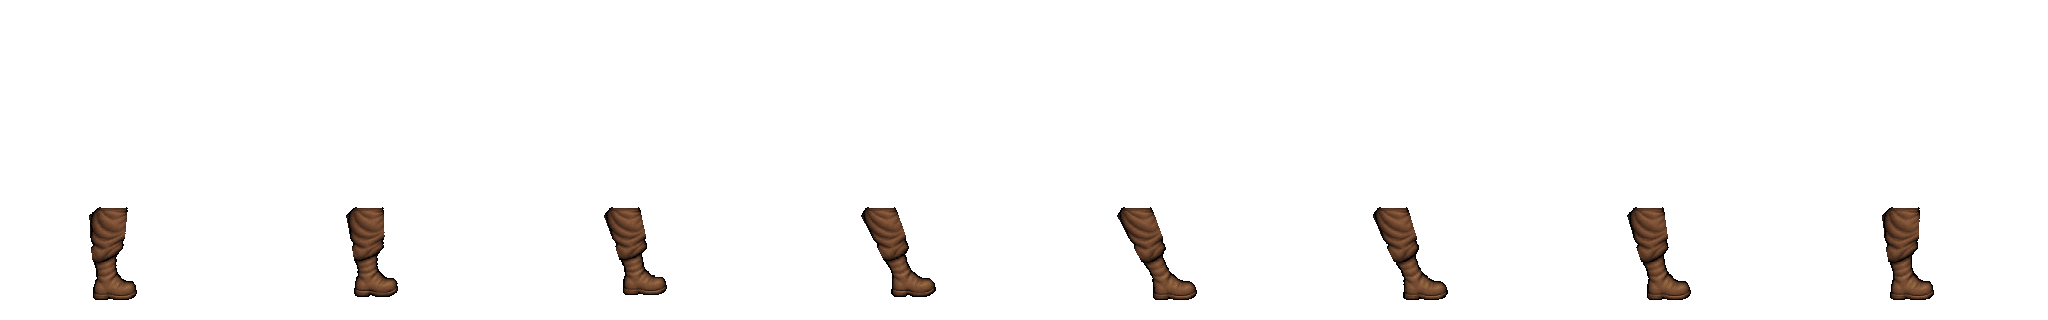
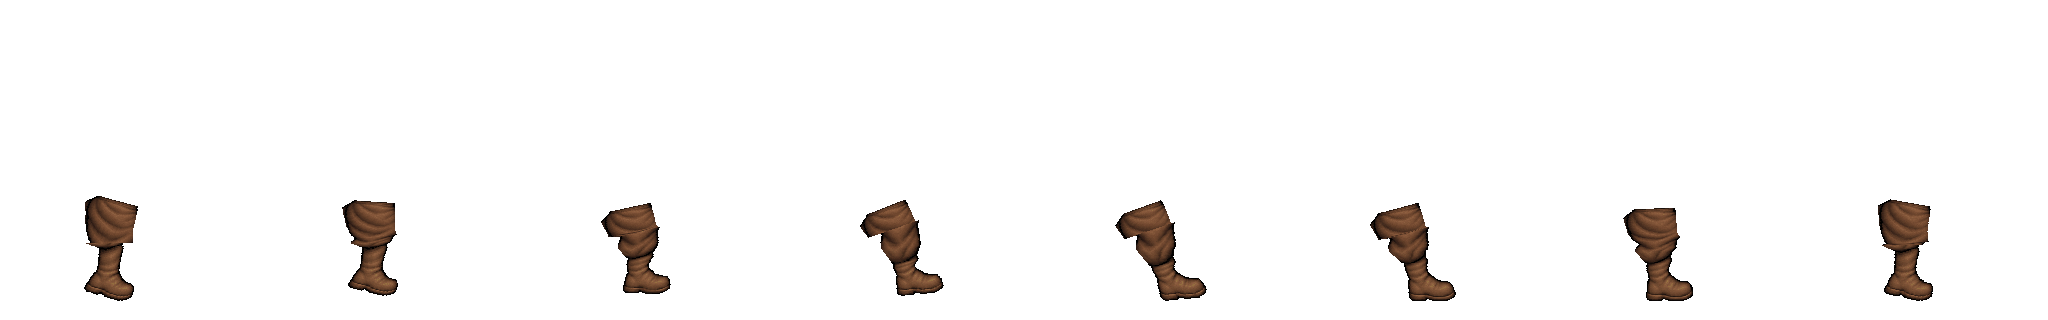
Refine right-walk stride and keep only grey fallen logs

diff --git a/src/world/fallenLogs.ts b/src/world/fallenLogs.ts
@@ -1,4 +1,4 @@
-import { FALLEN_LOGS, LOG_MUSHROOMS, FALLEN_LOG_GENERATION as CONFIG } from '../data/fallenLogs';
+import { FALLEN_LOGS, ACTIVE_LOG_VARIANTS, LOG_MUSHROOMS, FALLEN_LOG_GENERATION as CONFIG } from '../data/fallenLogs';
 import { seededRandom } from './random';
 import { overlaps, type Rect } from './geometry';
 import type { MeadowLayout } from './meadowLayout';
@@ -34,6 +34,27 @@ export function onMushroomSurface(variant: number, point: { x: number; y: number
       point.x < (bx - ax) * (point.y - ay) / (by - ay) + ax) inside = !inside;
   }
   return inside;
+}
+
+/** Scatter the existing items on a wood surface, preserving species/slot IDs.
+ * Shared by new layouts and migration from retired brown logs. */
+export function scatterLogMushrooms(variant: number, mushrooms: LogMushroom[], random: () => number) {
+  const art=FALLEN_LOGS[variant];
+  const integer=(min:number,max:number)=>min+Math.floor(random()*(max-min+1));
+  const placed: { x:number; y:number }[]=[];
+  for(const mushroom of mushrooms) {
+    let surface: { x:number; y:number } | undefined;
+    for(let attempt=0;attempt<1000;attempt++) {
+      const p={x:integer(1,art.width-2),y:integer(1,art.height-2)};
+      if(onMushroomSurface(variant,p)&&placed.every(other=>
+        Math.hypot(other.x-p.x,other.y-p.y)>=6&&Math.abs(other.x-p.x)>=4)&&
+        (placed.length<2||Math.abs((placed[1].x-placed[0].x)*(p.y-placed[0].y)-
+          (placed[1].y-placed[0].y)*(p.x-placed[0].x))>=6)) {surface=p;break;}
+    }
+    if(!surface)throw new Error('Не удалось разместить грибы на древесине');
+    mushroom.surface=surface;
+    placed.push(surface);
+  }
 }
 
 /** Reserve just four small clearings for the temporary start-screen test. */
@@ -72,29 +93,16 @@ export function generateFallenLogs(layout: MeadowLayout, trunks: readonly Rect[]
   const random = seededRandom(layout.seed ^ 0x4c4f4753);
   const integer = (min:number,max:number)=>min+Math.floor(random()*(max-min+1));
   const count = CONFIG.testAroundSpawn ? CONFIG.testOffsets.length : integer(CONFIG.min,CONFIG.max);
-  const result:FallenLogPlacement[]=[], variants=FALLEN_LOGS.map((_, index)=>index);
+  const result:FallenLogPlacement[]=[];
   const spawn = {x:layout.spawn.x-80,y:layout.spawn.y-80,width:160,height:160};
   for(let index=0;index<count;index++) {
-    const variant=CONFIG.testAroundSpawn ? variants.splice(integer(0,variants.length-1),1)[0] : integer(0,FALLEN_LOGS.length-1);
+    const variant=ACTIVE_LOG_VARIANTS[integer(0,ACTIVE_LOG_VARIANTS.length-1)];
     const angle=0, flipX=false;
     const mushrooms:FallenLogPlacement['mushrooms']=[];
     if(random()<CONFIG.mushroomChance || (CONFIG.testAroundSpawn && index===0)) {
       const species=integer(0,LOG_MUSHROOMS.length-1), amount=integer(CONFIG.mushroomMin,CONFIG.mushroomMax);
-      const art=FALLEN_LOGS[variant];
-      for(let n=0;n<amount;n++) {
-        let surface: { x: number; y: number } | undefined;
-        for(let attempt=0;attempt<1000;attempt++) {
-          const candidate={x:integer(1,art.width-2),y:integer(1,art.height-2)};
-          if(onMushroomSurface(variant,candidate)&&mushrooms.every(m=>
-            Math.hypot(m.surface!.x-candidate.x,m.surface!.y-candidate.y)>=6&&
-            Math.abs(m.surface!.x-candidate.x)>=4) &&
-            (mushrooms.length<2||Math.abs(
-              (mushrooms[1].surface!.x-mushrooms[0].surface!.x)*(candidate.y-mushrooms[0].surface!.y)-
-              (mushrooms[1].surface!.y-mushrooms[0].surface!.y)*(candidate.x-mushrooms[0].surface!.x))>=6)) {surface=candidate;break;}
-        }
-        if(!surface)throw new Error('Не удалось разместить грибы на древесине');
-        mushrooms.push({variant:species,slot:n,surface});
-      }
+      for(let n=0;n<amount;n++) mushrooms.push({variant:species,slot:n});
+      scatterLogMushrooms(variant,mushrooms,random);
     }
     let placed=false;
     for(let attempt=0;attempt<2000;attempt++) {

diff --git a/src/persistence/runSave.ts b/src/persistence/runSave.ts
@@ -2,8 +2,9 @@ import { CHARACTERS } from '../data/characters';
 import { ENVIRONMENT_VARIANTS } from '../data/environment';
 import { FACINGS } from '../input/EightWayFacing';
 import { MEADOW_WORLD } from '../world/meadowLayout';
-import { FALLEN_LOGS, LOG_MUSHROOMS } from '../data/fallenLogs';
-import { onMushroomSurface, logVisualRect } from '../world/fallenLogs';
+import { FALLEN_LOGS, ACTIVE_LOG_VARIANTS, LOG_MUSHROOMS } from '../data/fallenLogs';
+import { onMushroomSurface, logVisualRect, scatterLogMushrooms } from '../world/fallenLogs';
+import { seededRandom } from '../world/random';
 import type { PointSave, RunSave } from './snapshots';
 
 export const RUN_SAVE_KEY = 'druid-game.run.v1';
@@ -18,9 +19,15 @@ const facing = (value: RunSave['player']['state']['facing']) => FACINGS.includes
 // indices, then replace their artwork on load without losing collected items.
 const LEGACY_MUSHROOM_COUNT = 7;
 function migrateMushrooms(save: RunSave): RunSave {
-  save.layout.logs?.forEach(log => log.mushrooms.forEach(mushroom => {
-    mushroom.variant %= LOG_MUSHROOMS.length;
-  }));
+  save.layout.logs?.forEach(log => {
+    log.mushrooms.forEach(mushroom => { mushroom.variant %= LOG_MUSHROOMS.length; });
+    if(log.variant !== ACTIVE_LOG_VARIANTS[0]) {
+      log.variant=ACTIVE_LOG_VARIANTS[0];
+      log.angle=0; log.flipX=false;
+      scatterLogMushrooms(log.variant,log.mushrooms,
+        seededRandom(save.layout.seed ^ Math.round(log.x*31+log.y*17)));
+    }
+  });
   return save;
 }
 

diff --git a/src/data/fallenLogs.ts b/src/data/fallenLogs.ts
@@ -1,7 +1,9 @@
 import art from '../../docs/art/fallen-logs-v2/sprites.json';
 import mushrooms from '../../docs/art/log-mushrooms-v3/sprites.json';
 
+// Keep stable indices for loading existing runs; only the grey trunk spawns.
 export const FALLEN_LOGS = art.logs;
+export const ACTIVE_LOG_VARIANTS = [4] as const;
 export const MUSHROOM_SIZE_MULTIPLIER = 2;
 export const LOG_MUSHROOMS = mushrooms.mushrooms.map(sprite => ({
   ...sprite, scale: sprite.scale * art.sizeMultiplier * MUSHROOM_SIZE_MULTIPLIER,

diff --git a/scripts/prepare-druid-right-walk-v3.py b/scripts/prepare-druid-right-walk-v3.py
@@ -47,21 +47,58 @@ trees = {name:cKDTree(colors.astype(float)) for name,colors in palettes.items()}
 
 def leg(phase, near):
     angle = phase * 2 * math.pi / 8 + (0 if near else math.pi)
-    hip_x = 128 if near else 111
+    hip_x = 124 if near else 116
     # Both feet use the same stride centre: the perspective offset between the
     # hips must not give one foot a permanently forward screen position.
-    foot_x = 120 + 18 * math.cos(angle)
-    lift = max(0, -math.sin(angle)) * 5
-    knee_x = hip_x + (foot_x-hip_x)*.55 + max(0,-math.sin(angle))*3
+    foot_x = 120 + 28 * math.cos(angle)
+    lift = max(0, -math.sin(angle)) * 7
+    knee_x = hip_x + (foot_x-hip_x)*.48 + max(0,-math.sin(angle))*7
     target_y = [207, 250-lift*.25, 287-lift, 300-lift]
-    source_y = np.interp(y, target_y, [65,335,460,510])
-    center = np.interp(source_y, [65,335,460,510], [350,445,455,455])
-    target_x = np.interp(y, target_y, [hip_x,knee_x,foot_x,foot_x])
-    source_x = center+(x-target_x)/(.22 if near else .215)
+    # A connected strip mesh rotates the thigh/calf around their joints.
+    # Shared vertices keep the knee sealed; feet roll instead of being sheared.
+    source_rows = np.array([65,220,335,400,510], dtype=float)
+    centers = np.interp(source_rows, [65,335,460,510], [350,445,455,455])
+    rows = np.interp(source_rows, [65,335,460,510], target_y)
+    xs = np.interp(rows, target_y, [hip_x,knee_x,foot_x,foot_x])
+    widths = [.31,.31,.28,.24,.24] if near else [.30,.30,.27,.23,.23]
+    pitch = [-.10,0,0,.22,.28,.24,.02,-.10][(phase+(0 if near else 4))%8]
+    boot_pivot = np.array([foot_x,300-lift])
+    rotation = np.array([[math.cos(pitch),-math.sin(pitch)],
+                         [math.sin(pitch),math.cos(pitch)]])
+    source_nodes, target_nodes = [], []
+    for n,(sy,cx,ty,tx,width) in enumerate(zip(source_rows,centers,rows,xs,widths)):
+        slope = (knee_x-hip_x)/(target_y[1]-target_y[0]) if n<2 else 0
+        cross = np.array([1.,-slope]); cross /= np.linalg.norm(cross)
+        pair = np.array([np.array([tx,ty])+sign*240*width*cross for sign in [-1,1]])
+        if n>=3: pair = (pair-boot_pivot)@rotation.T+boot_pivot
+        source_nodes.extend([[cx-240,sy],[cx+240,sy]])
+        target_nodes.extend(pair)
+    source_nodes=np.array(source_nodes);target_nodes=np.array(target_nodes)
+    source_y=np.full(SIZE[::-1],-100.,dtype=float)
+    source_x=np.full(SIZE[::-1],-100.,dtype=float)
+    points=np.stack([x,y],axis=-1)
+    for row in range(4):
+        for offsets in [(0,1,2),(1,3,2)]:
+            indices=np.array(offsets)+row*2
+            triangle=target_nodes[indices]; origin=triangle[0]
+            matrix=np.column_stack((triangle[1]-origin,triangle[2]-origin))
+            uv=(points-origin)@np.linalg.inv(matrix).T
+            inside=(uv[:,:,0]>=0)&(uv[:,:,1]>=0)&(uv.sum(axis=2)<=1)
+            src=source_nodes[indices]
+            mapped=src[0]+uv[:,:,0,None]*(src[1]-src[0])+uv[:,:,1,None]*(src[2]-src[0])
+            source_x[inside]=mapped[:,:,0][inside];source_y[inside]=mapped[:,:,1][inside]
     coordinates = np.array([source_y,source_x])
     data = np.stack([map_coordinates(master[:,:,c],coordinates,order=0,mode='constant',cval=0)
                      for c in range(4)],axis=2)
-    data[(y<target_y[0])|(y>=target_y[-1])]=0
+    # Keep the support sole on the floor while the other foot passes above it.
+    occupied=np.where(data[:,:,3]>0)[0]
+    if len(occupied):
+        dy=round(300-lift)-int(occupied.max())
+        shifted=np.zeros_like(data)
+        if dy>=0: shifted[dy:]=data[:320-dy] if dy else data
+        else: shifted[:dy]=data[-dy:]
+        data=shifted
+        source_y=np.roll(source_y,dy,axis=0)
     for name, selection in [('pants',source_y<335),('boots',source_y>=335)]:
         selected = selection&(data[:,:,3]>0)
         colors = data[:,:,:3][selected].astype(float) * (1 if near else .92)
@@ -123,6 +160,6 @@ for frame in frames:
 previews[0].save(OUT/'walk-right-preview.gif',save_all=True,append_images=previews[1:],duration=120,loop=0,disposal=2)
 (OUT/'art.json').write_text(json.dumps({'frameWidth':256,'frameHeight':320,'frameCount':8,
     'frameDurationMs':120,'upperSource':'../druid-eight-way-v1/walk-right-256x320.png',
-    'master':'leg-master.png','cycleMs':960,'stridePixels':36,'maxFootLiftPixels':5,
+    'master':'leg-master.png','cycleMs':960,'stridePixels':56,'maxFootLiftPixels':7,
     'layerOrder':['far-side staff','far leg','near leg','original garments'],
     'staticOldLegLayer':False,'poses':registrations},indent=2)+'\n')

diff --git a/README.md b/README.md
@@ -29,11 +29,11 @@ npm run dev
 
 ## Брёвна с грибами
 
-Пока включена тестовая раскладка: **четыре разных бревна из пяти вокруг старта**, примерно ±220 единиц по горизонтали и ±135 по вертикали, с разбросом ±12/±10. Их небольшие участки свободны от крон; деревьев по-прежнему **70–99**. На первом бревне гарантированы **1–3 гриба одного вида**, у остальных шанс грибов **50%**, при успехе тоже 1–3. Один вид выбирается из семи. Точки случайны на древесине, с промежутками, без фиксированного ряда.
+Пока включена тестовая раскладка: **четыре серых бревна из отдельного рисунка вокруг старта**, примерно ±220 единиц по горизонтали и ±135 по вертикали, с разбросом ±12/±10. Их небольшие участки свободны от крон; деревьев по-прежнему **70–99**. На первом бревне гарантированы **1–3 гриба одного вида**, у остальных шанс грибов **50%**, при успехе тоже 1–3. Один вид выбирается из семи. Точки случайны на древесине, с промежутками, без фиксированного ряда.
 
 **E — взаимодействовать с ближайшим бревном, на котором остались грибы.** Достаточно подойти с любой стороны: до 44 игровых единиц от центра тела до древесины. Расстояние до самих грибов не учитывается; касаться бревна необязательно. Одно нажатие убирает один гриб; удержание не повторяет сбор. Пока нет счётчика, инвентаря или бонусов. Сбор сохраняется при Esc → «Продолжить».
 
-Брёвна уменьшены примерно на треть, без серой тени, поворотов и отражения; сетка — 2 игровые единицы на пиксель. Они блокируют движение и желуди, учитываются в маршрутах животных. Для новой тестовой раскладки после обновления нажмите **R**: сохранённые позиции не переставляются. `testAroundSpawn: false` в `src/data/fallenLogs.ts` позже вернёт обычную генерацию 2–4 брёвен по миру.
+Брёвна уменьшены примерно на треть, без серой тени, поворотов и отражения; сетка — 2 игровые единицы на пиксель. Они блокируют движение и желуди, учитываются в маршрутах животных. Коричневые варианты исключены из генерации. При продолжении старого забега они заменяются серыми на тех же местах; количество оставшихся грибов сохраняется. Для новой тестовой раскладки нажмите **R**. `testAroundSpawn: false` в `src/data/fallenLogs.ts` позже вернёт обычную генерацию 2–4 брёвен по миру.
 
 [Исходники и правила подготовки](docs/art/fallen-logs-v2/README.md). Нижняя серая строка с управлением убрана; клавиши работают как прежде и описаны выше.
 

diff --git a/docs/art/druid-walk-right-v3/README.md b/docs/art/druid-walk-right-v3/README.md
@@ -2,7 +2,7 @@
 
 Активная правая походка — восемь кадров 256×320. Полный цикл по-прежнему 960 мс при базовой скорости, 120 мс на кадр; прежние четыре положения корпуса дублируются попарно. Стоящий правый ракурс и остальные направления не менялись.
 
-Нижняя часть собрана заново из отдельно нарисованной ноги `leg-master.png`, без старых ног и статичной подложки. У каждой ноги собственная непрерывная траектория от бедра через колено до сапога. Циклы сдвинуты на полпериода: одна нога проходит назад в опоре, другая переносится вперёд, затем они меняются. Общий центр траекторий стоп исключает постоянно ведущую ногу. Размах — 36 native-пикселей, подъём стопы — до 5 пикселей. Дальняя нога перекрывается ближней даже при смене ведущей стопы.
+Нижняя часть собрана заново из отдельно нарисованной ноги `leg-master.png`, без старых ног и статичной подложки. У каждой ноги собственная непрерывная траектория от бедра через колено до сапога. Циклы сдвинуты на полпериода: одна нога проходит назад в опоре, другая переносится вперёд, затем они меняются. Общий центр траекторий стоп исключает постоянно ведущую ногу. Размах опорных точек — 56 native-пикселей, подъём стопы — до 7 пикселей. После замечания о тонких ногах и семенящей походке увеличена полнота штанин. Вместо сдвига строк используется связная сетка треугольников вокруг бедра/колена; сапог поворачивается при отрыве и постановке. Восемь поз дают выраженный перенос ноги от бедра. Дальняя нога перекрывается ближней даже при смене ведущей стопы.
 
 Цвета брюк и сапог взяты из принятых правых спрайтов; координаты верхней части, рука, посох и движение корпуса берутся из `druid-eight-way-v1` без изменений выше y=220. Порядок: дальний посох → дальняя нога → ближняя нога → прежняя одежда. Слой одежды не содержит сапог ниже y=268. Нет подложки старой голени, смешивания прозрачных кадров или отражённого посоха.
 

diff --git a/docs/project-notes.md b/docs/project-notes.md
@@ -1,3 +1,9 @@
+## Текущая правка: шаг вправо и только серое бревно
+
+- Пользователь отметил тонкие ноги и семенящий шаг в v3. Сетка двух отдельных ног теперь полнее в бедре и голени; размах опорных точек увеличен с 36 до 56 native-пикселей, перенос до 7 по высоте. Связная сетка вокруг суставов и поворот сапога добавляют отрыв/постановку стопы. Верх, палитра, восемь фаз и общий цикл 960 мс сохранены. Оценка естественности ожидает пользователя.
+- В генерации только `log-4`: серое бревно из отдельного рисунка. Четыре около старта для теста, без поворотов/отражений. Коричневые PNG сохранены как архив и для чтения прежних индексов; после загрузки старые брёвна переходят в серый вариант на тех же позициях. Грибы размещаются заново по новой поверхности, количество и собранные слоты сохраняются.
+- Грибы сейчас прежние, размер ×2. Предложено на следующем художественном этапе согласовать их пиксельную детализацию с древесиной и частично закрыть основание ножек корой. Это пока совет, не выполненное/утверждённое изменение.
+
 # Решения и отложенные пожелания
 
 Эти заметки сохраняют контекст обсуждения. Перечисленные планы не означают, что они уже реализованы или должны выполняться без нового запроса пользователя.
